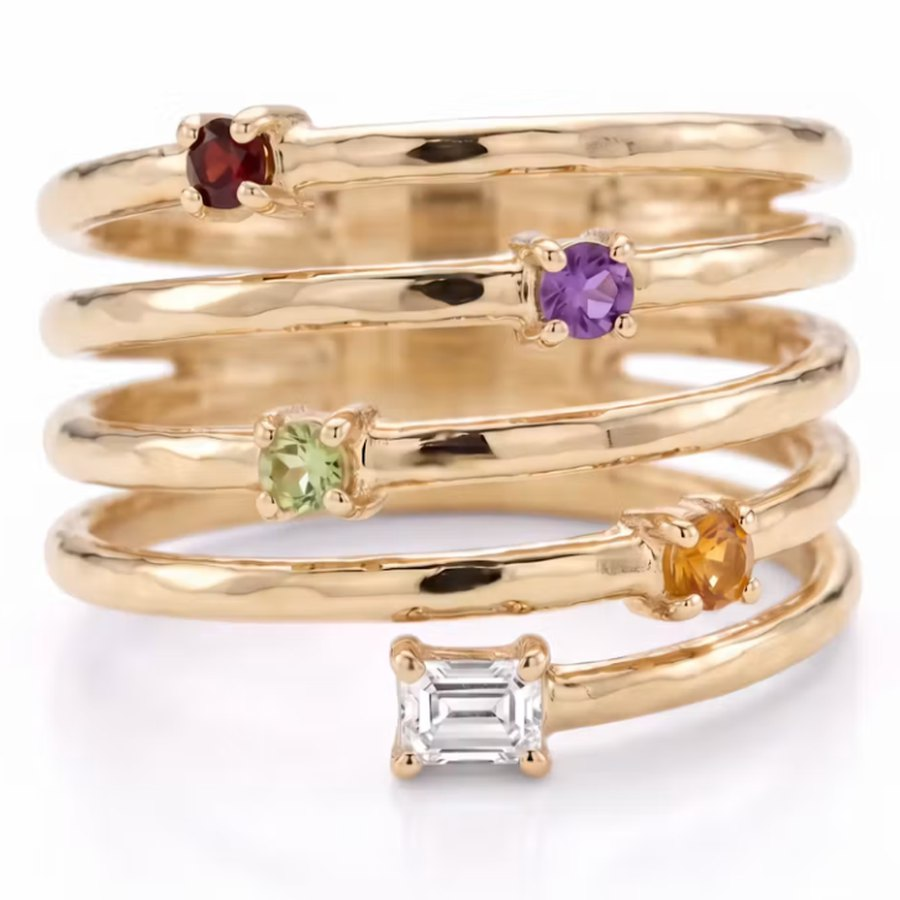
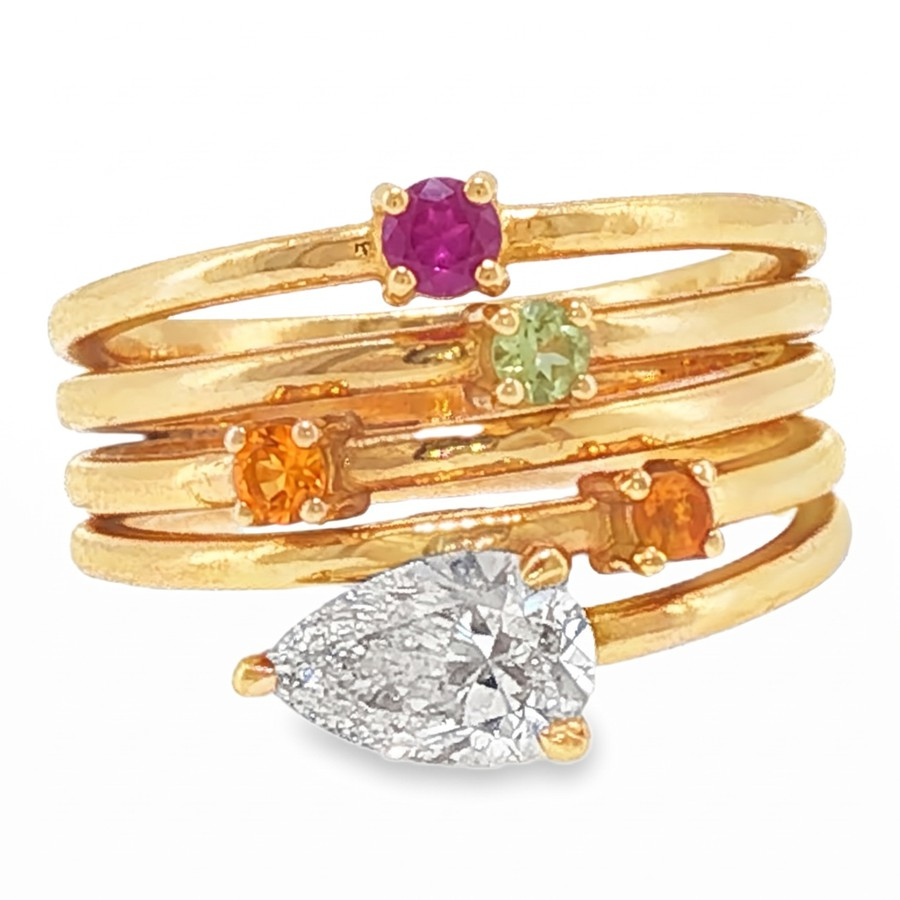
WIP: her real photos as the base; stones are cut-outs of her real stones laid on plain rings

diff --git a/index.html b/index.html
@@ -349,18 +349,18 @@ function newBottomStone(partial){
   return Object.assign({id:++uid, shape:'oval', month:3, size:'c100', name:'', turn:false}, partial || {});
 }
 function defaultDesign(){
-  // Opens on Penina's own ring (see "Her ring, for reference"): ruby, garnet,
-  // amethyst, peridot, citrine, and an emerald-cut diamond on the bottom wrap.
+  // Opens on Penina's own ring, as photographed: garnet, garnet, ruby,
+  // peridot, citrine, and a pear diamond lying sideways on the bottom wrap.
   wraps = [
-    newWrap({stone:{month:6, name:'', twin:false}}),
     newWrap({stone:{month:0, name:'', twin:false}}),
-    newWrap({stone:{month:1, name:'', twin:false}}),
+    newWrap({stone:{month:0, name:'', twin:false}}),
+    newWrap({stone:{month:6, name:'', twin:false}}),
     newWrap({stone:{month:7, name:'', twin:false}}),
     newWrap({stone:{month:10, name:'', twin:false}}),
   ];
   metal = 'y';
   stoneCarat = 'c05';
-  feature = {on:true, stones:[newBottomStone({shape:'emerald', month:3, size:'c50', turn:true})]};
+  feature = {on:true, stones:[newBottomStone({shape:'pear', month:3, size:'c50', turn:true})]};
   selected = 0;
 }
 
@@ -1048,15 +1048,25 @@ function buildSpec(){
    metal for rose gold and silver. Stone positions are measured on the 900px
    photos in img/studio (re-measure if a photo is replaced). */
 const STUDIO = {y:'gold', r:'rose', w:'silver'};
-const STUDIO_READY = {y:[1,2,3,4,5], r:[1, 2, 3, 4, 5], w:[1, 2, 3, 4, 5]};   // real photos per metal; any gaps are tinted from gold
+const STUDIO_READY = {y:[3,4,5], r:[], w:[]};   // real photos per metal; any gaps are tinted from gold
 // x, y = stone centre; r = stone radius (round stones); w, h = emerald-cut body; m = the stone in the photo
 const PHOTO_STONES = {
   1:{wraps:[{x:612,y:442,r:47,m:10}], bottom:{x:461,y:550,w:128,h:104,m:3}},
   2:{wraps:[{x:291,y:354,r:51,m:7},{x:650,y:450,r:49,m:10}], bottom:{x:460,y:618,w:118,h:138,m:3}},
-  3:{wraps:[{x:588,y:258,r:46,m:1},{x:290,y:358,r:51,m:7},{x:651,y:495,r:50,m:10}], bottom:{x:459,y:662,w:114,h:136,m:3}},
-  4:{wraps:[{x:227,y:163,r:41,m:0},{x:587,y:290,r:45,m:1},{x:304,y:468,r:42,m:7},{x:707,y:557,r:41,m:10}], bottom:{x:472,y:714,w:140,h:102,m:3}},
-  5:{wraps:[{x:456,y:103,r:42,m:6},{x:229,y:222,r:40,m:0},{x:587,y:349,r:45,m:1},{x:306,y:527,r:42,m:7},{x:708,y:618,r:40,m:10}], bottom:{x:472,y:770,w:140,h:104,m:3}},
+  3:{wraps:[{x:456,y:192,r:78,m:7},{x:230,y:335,r:68,m:null},{x:443,y:462,r:66,m:10}], bottom:{x:420,y:665,w:330,h:190,m:3,shape:'pear',turn:true}},
+  4:{wraps:[{x:438,y:235,r:42,m:6},{x:538,y:345,r:38,m:7},{x:280,y:470,r:42,m:10},{x:655,y:520,r:40,m:10}], bottom:{x:420,y:665,w:330,h:190,m:3,shape:'pear',turn:true}},
+  5:{wraps:[{x:378,y:170,r:40,m:0},{x:190,y:298,r:40,m:0},{x:535,y:355,r:40,m:6},{x:283,y:470,r:41,m:7},{x:655,y:515,r:40,m:10}], bottom:{x:430,y:655,w:330,h:190,m:3,shape:'pear',turn:true}},
 };
+/* Plain rings (no stones) per wrap count; every stone is then a cut-out of her real
+   stones laid on the wire, so any wrap can be plain, twinned, recoloured or resized. */
+const PLAIN = {1:'img/studio/plain-1.jpg', 4:'img/studio/plain-4.jpg', 5:'img/studio/plain-5.jpg'};
+/* where her stones sit on each plain ring (mapped from her photo) */
+const PLAIN_STONES = {
+  1:{wraps:[{x:560,y:300,r:40,m:10}], bottom:{x:430,y:625,w:330,h:190,m:3,shape:'pear',turn:true}},
+  4:{wraps:[{x:437,y:247,r:42,m:6},{x:537,y:341,r:38,m:7},{x:279,y:447,r:42,m:10},{x:654,y:490,r:40,m:10}], bottom:{x:419,y:614,w:330,h:190,m:3,shape:'pear',turn:true}},
+  5:{wraps:[{x:378,y:175,r:40,m:0},{x:190,y:287,r:40,m:0},{x:535,y:337,r:40,m:6},{x:283,y:438,r:40,m:7},{x:655,y:477,r:40,m:10}], bottom:{x:430,y:600,w:330,h:190,m:3,shape:'pear',turn:true}},
+};   // n -> plain ring photo, once it exists
+const SRC = {src:'img/studio/gold-5.jpg', n:5, stone:{x:535, y:355, r:40, m:6}};   // her ruby, with its prongs
 let view = 'photo';
 const photoImgs = {};          // src -> HTMLImageElement
 const metalBase = {};          // src|metal -> canvas with the metal tinted
@@ -1110,8 +1120,9 @@ function tintedBase(src, img, m, n){
   if (m !== 'y' && !STUDIO_READY[m].includes(n)){
     const id = x.getImageData(0, 0, c.width, c.height), d = id.data;
     const P = PHOTO_STONES[n], k = c.width / 900;
-    const holes = P.wraps.map(s => [s.x*k, s.y*k, s.r*k*0.96]);
-    const bx = P.bottom.x*k, by = P.bottom.y*k, bw = P.bottom.w*k*0.42, bh = P.bottom.h*k*0.42;
+    const plain = Object.values(PLAIN).includes(src);          // a bare ring: tint everything
+    const holes = plain ? [] : P.wraps.map(s => [s.x*k, s.y*k, s.r*k*0.96]);
+    const bx = P.bottom.x*k, by = P.bottom.y*k, bw = plain ? 0 : P.bottom.w*k*0.42, bh = plain ? 0 : P.bottom.h*k*0.42;
     for (let y = 0; y < c.height; y++){
       for (let xx = 0; xx < c.width; xx++){
         let skip = false;
@@ -1279,40 +1290,61 @@ function eraseStone(ctx, out, cx, cy, hw, hh){
   const W = out.width, H = out.height;
   const x0 = Math.max(4, Math.round(cx - hw)), x1 = Math.min(W - 5, Math.round(cx + hw));
   const y0 = Math.max(0, Math.round(cy - hh)), y1 = Math.min(H - 1, Math.round(cy + hh));
-  const src = pixelsOf(out).data;
   const bw = x1 - x0 + 1, bh = y1 - y0 + 1;
-  const patch = ctx.createImageData(bw, bh), d = patch.data;
-  // where the wire crosses each side, so the fill can follow its curve
+  const src = pixelsOf(out).data;
   const yL = wireYAt(out, x0 - 3, cy, hh*0.6), yR = wireYAt(out, x1 + 3, cy, hh*0.6);
-  const follow = yL != null && yR != null && Math.abs(yL - yR) < hh*0.45 && Math.abs((yL + yR)/2 - cy) < hh*0.45;
-  const col = (x, y) => { y = Math.max(0, Math.min(H - 1, Math.round(y))); const o = (y*W + x)*4; return [src[o], src[o+1], src[o+2]]; };
-  const avg3 = (xa, y, dir) => { const a = col(xa, y), b = col(xa + dir, y), c = col(xa + 2*dir, y); return [(a[0]+b[0]+c[0])/3, (a[1]+b[1]+c[1])/3, (a[2]+b[2]+c[2])/3]; };
-  const bgMin = metal === 'w' ? 236 : 188;   // bright silver wire is close to white, so be stricter
-  const isBg = c => Math.min(c[0], c[1], c[2]) > bgMin && Math.max(c[0], c[1], c[2]) - Math.min(c[0], c[1], c[2]) < 22;
-  for (let y = y0; y <= y1; y++){
-    for (let x = x0; x <= x1; x++){
-      const t = (x - x0) / (x1 - x0 || 1), s = t*t*(3 - 2*t);
-      const yc = follow ? yL + (yR - yL) * s : cy;
-      const L = avg3(x0 - 1, follow ? y + (yL - yc) : y, -1);
-      const R = avg3(x1 + 1, follow ? y + (yR - yc) : y, 1);
-      const bgL = isBg(L), bgR = isBg(R);
-      let A = L, Bc = R, f = s;
-      if (bgL !== bgR){                                   // the wire stops on one side: end it cleanly
-        const cut = bgL ? cx - hw*0.45 : cx + hw*0.45;
-        f = smooth(cut - 3, cut + 3, x);
-        if (bgL) A = [255,255,255]; else Bc = [255,255,255];
-      }
+  // where to borrow wire from: a clean stretch of the same wire toward the middle of the ring
+  const dir = cx < W/2 ? 1 : -1;
+  let sx0 = null, sy = [];
+  for (const off of []){   // (copying a stretch of wire showed seams; the blend below reads cleaner)
+    const sx = Math.round(cx + dir * hw * off);
+    if (sx - hw < 2 || sx + hw > W - 3) continue;
+    const ys = [];
+    let ok = true, yPrev = cy;
+    for (let x = sx - hw; x <= sx + hw; x++){
+      const y = wireYAt(out, x, yPrev, hh*0.7);
+      if (y == null){ ok = false; break; }
+      ys.push(y); yPrev = y;
+    }
+    if (ok){ sx0 = Math.round(sx - hw); sy = ys; break; }
+  }
+  const patch = ctx.createImageData(bw, bh), d = patch.data;
+  const col = (x, y) => { x = Math.max(0, Math.min(W - 1, Math.round(x))); y = Math.max(0, Math.min(H - 1, Math.round(y))); const o = (y*W + x)*4; return [src[o], src[o+1], src[o+2]]; };
+  for (let x = x0; x <= x1; x++){
+    const t = (x - x0) / (x1 - x0 || 1);
+    // the wire's centre under the stone: a straight line between the two sides
+    const yc = (yL != null && yR != null) ? yL + (yR - yL) * t : (yL != null ? yL : (yR != null ? yR : cy));
+    for (let y = y0; y <= y1; y++){
       const i = ((y - y0)*bw + (x - x0))*4;
-      d[i]   = A[0] + (Bc[0] - A[0]) * f;
-      d[i+1] = A[1] + (Bc[1] - A[1]) * f;
-      d[i+2] = A[2] + (Bc[2] - A[2]) * f;
+      let c;
+      if (sx0 != null){
+        const j = Math.min(sy.length - 1, x - x0);
+        c = col(sx0 + j, y + (sy[j] - yc));                // same wire, shifted to this column's centre
+      } else {
+        const L = col(x0 - 2, y + ((yL != null ? yL : cy) - yc)), R = col(x1 + 2, y + ((yR != null ? yR : cy) - yc));
+        const s = smooth(0.3, 0.7, t);
+        c = [L[0] + (R[0] - L[0]) * s, L[1] + (R[1] - L[1]) * s, L[2] + (R[2] - L[2]) * s];
+      }
+      d[i] = c[0]; d[i+1] = c[1]; d[i+2] = c[2];
       const e = Math.max(Math.abs(x - cx) / hw, Math.abs(y - cy) / hh);
-      d[i+3] = Math.round(255 * (1 - smooth(0.84, 1.0, e)));
+      d[i+3] = Math.round(255 * (1 - smooth(0.80, 1.0, e)));
     }
   }
   const p = document.createElement('canvas'); p.width = bw; p.height = bh;
   p.getContext('2d').putImageData(patch, 0, 0);
   ctx.drawImage(p, x0, y0);
+  out.__v = (out.__v || 0) + 1;
+}
+/* the bottom wire ends at her pear: taking the pear away just leaves the wire's open end */
+function eraseOpenEnd(ctx, out, B, k){
+  const cx = B.x*k, cy = B.y*k, rx = B.w*0.56*k, ry = B.h*0.62*k;
+  const g = ctx.createRadialGradient(cx, cy, 0, cx, cy, 1);
+  ctx.save();
+  ctx.translate(cx, cy); ctx.scale(rx, ry);
+  const gr = ctx.createRadialGradient(0, 0, 0, 0, 0, 1);
+  gr.addColorStop(0, 'rgba(255,255,255,1)'); gr.addColorStop(0.9, 'rgba(255,255,255,1)'); gr.addColorStop(1, 'rgba(255,255,255,0)');
+  ctx.fillStyle = gr; ctx.fillRect(-1.1, -1.1, 2.2, 2.2);
+  ctx.restore();
   out.__v = (out.__v || 0) + 1;
 }
 
@@ -1364,14 +1396,9 @@ function paintRound(ctx, base, k, s, mi, scale, dest){
    Each sprite is cut from a studio photo of this ring (the 5-wrap shot) with that
    cut on the bottom wire; bw/bh = the stone's body in sprite pixels. */
 const SPRITES = {
-  // bw/bh = the stone's body in sprite pixels; norm brings each cut to the same 0.5 ct footprint
-  'emerald-h':{src:'img/studio/bottom/emerald-h.png', bw:140, bh:104, norm:1},
-  'emerald-v':{src:'img/studio/bottom/emerald-v.png', bw:135, bh:160, norm:0.88},
-  'oval-v':   {src:'img/studio/bottom/oval-v.png',    bw:140, bh:192, norm:0.80},
-  'pear-v':   {src:'img/studio/bottom/pear-v.png',    bw:150, bh:200, norm:0.75},
-  'heart-v':  {src:'img/studio/bottom/heart-v.png',   bw:160, bh:165, norm:0.86},
-  'oval-h':   {src:'img/studio/bottom/oval-h.png',    bw:182, bh:142, norm:0.80},
-  'pear-h':   {src:'img/studio/bottom/pear-h.png',    bw:176, bh:142, norm:0.80},
+  // bw/bh = the stone's body in sprite pixels; norm brings each cut to the same 0.5 ct footprint (her pear = 1)
+  'pear-h':   {src:'img/studio/bottom/pear-h.png',    bw:316, bh:180, norm:1, pow:3},
+  'oval-h':   {src:'img/studio/bottom/oval-h.png',    bw:340, bh:230, norm:0.90, pow:3},
 };
 const spriteImgs = {};
 function spriteFor(shape, turn){
@@ -1406,7 +1433,9 @@ function paintSprite(ctx, sp, cx, cy, scale, mi){
   const inBody = (x, y) => ((x - pw/2) / (sp.bw*0.5))**2 + ((y - ph/2) / (sp.bh*0.5))**2 < 1;
   if (mi !== 3) recolor(px, pw, ph, (x, y, r, g, b) => {
     const e = ((x - pw/2) / (sp.bw*0.52))**2 + ((y - ph/2) / (sp.bh*0.52))**2;
-    return e < 1 ? Math.max(1 - smooth(0.55, 0.8, e), notMetal(r, g, b)) * (1 - smooth(0.85, 1, e)) : 0;
+    const [, sat, mx] = hueSat(r, g, b);
+    if (e >= 1 || (mx > 238 && sat < 0.05) || isMetalPx(r, g, b)) return 0;
+    return 1 - smooth(0.86, 1, e);
   }, mi);
   clearBackdrop(px, pw, ph, inBody);
   // keep only the stone and the prongs that hold it: a rounded-box mask just outside the body
@@ -1427,7 +1456,7 @@ function buildSwatches(){
   const src = 'img/studio/gold-5.jpg', img = loadPhoto(src);
   if (!img) return;
   const k = img.naturalWidth / 900;
-  const s = {x:587, y:349, r:45, m:1};                       // the amethyst on the 5-wrap photo
+  const s = {x:535, y:355, r:40, m:6};                       // the ruby on her 5-wrap photo
   const gold = tintedBase(src, img, 'y', 5);
   const R = s.r * k, side = Math.ceil(R*2);
   for (let mi = 0; mi < 12; mi++){
@@ -1450,14 +1479,17 @@ function buildSwatches(){
     const ox = o.getContext('2d');
     ox.beginPath(); ox.arc(32, 32, 32, 0, Math.PI*2); ox.clip();
     const w = 30*k;
-    ox.drawImage(base, 700*k - w, 352*k - w, w*2, w*2, 0, 0, 64, 64);
+    ox.drawImage(base, 720*k - w, 232*k - w, w*2, w*2, 0, 0, 64, 64);
     SWATCH.metals[m] = o.toDataURL('image/png');
   }
   SWATCH.ready = true;
   renderEditor();
 }
 function photoFor(){
-  const n = Math.min(Math.max(wraps.length, 1), MAX_WRAPS);
+  let n = Math.min(Math.max(wraps.length, 1), MAX_WRAPS);
+  if (PLAIN[n]) return {n, real:false, src:PLAIN[n]};
+  while (n < MAX_WRAPS && !STUDIO_READY.y.includes(n) && !PLAIN[n]) n++;      // nearest photographed size
+  if (PLAIN[n]) return {n, real:false, src:PLAIN[n]};
   const real = STUDIO_READY[metal].includes(n);
   return {n, real, src:'img/studio/' + STUDIO[real ? metal : 'y'] + '-' + n + '.jpg'};
 }
@@ -1479,26 +1511,34 @@ function renderPhoto(){
   ctx.drawImage(base, 0, 0);
   cv.__v = (cv.__v || 0) + 1;
   const k = cv.width / 900, P = PHOTO_STONES[n];
+  if (PLAIN[n]) return renderOnPlain(ctx, cv, k, n, PLAIN_STONES[n] || P);
   const avoid = P.wraps.map(s => [s.x*k, s.y*k, s.r*k*1.5]);
-  const B = P.bottom, bLong = Math.max(B.w, B.h), photoScale = bLong / 140;
+  const B = P.bottom, bLong = Math.max(B.w, B.h), photoScale = bLong / 330;   // her pear's body = the 0.5 ct baseline
   avoid.push([B.x*k, B.y*k, bLong*k*0.75]);
 
   // top wraps: plain wraps lose their stone, the rest take the chosen stone and carat
   const topScale = STONE_CARATS[stoneCarat].scale / STONE_CARATS.c05.scale;
   P.wraps.forEach((s, i) => {
     const st = wraps[i] && wraps[i].stone;
-    if (!st) eraseStone(ctx, cv, s.x*k, s.y*k, s.r*1.9*k, s.r*1.7*k);
+    if (!st && s.m != null) eraseStone(ctx, cv, s.x*k, s.y*k, s.r*1.6*k, s.r*1.6*k);
   });
   // bottom wire — take the photo's own stone out first, before anything new is painted nearby
-  const origSideways = B.w > B.h;
+  const origShape = B.shape || 'emerald', origSideways = B.turn != null ? Boolean(B.turn) : B.w > B.h;
   const stones = feature.on ? feature.stones : [];
-  const same = stones.length === 1 && stones[0].shape === 'emerald' && Boolean(stones[0].turn) === origSideways;
-  if (!same) eraseStone(ctx, cv, B.x*k, B.y*k, B.w*0.80*k, B.h*0.95*k);
+  const same = stones.length === 1 && stones[0].shape === origShape && Boolean(stones[0].turn) === origSideways;
+  if (!same){ if (B.open) eraseOpenEnd(ctx, cv, B, k); else eraseStone(ctx, cv, B.x*k, B.y*k, B.w*0.62*k, B.h*0.70*k); }
 
   // top stones
+  const srcImg = loadPhoto(SRC.src), srcBase = srcImg ? tintedBase(SRC.src, srcImg, metal, SRC.n) : null;
   P.wraps.forEach((s, i) => {
     const st = wraps[i] && wraps[i].stone;
     if (!st) return;
+    if (s.m == null){                               // a bare wire in this photo: lay her real stone on it
+      if (!srcBase) return;
+      const yw = wireYAt(cv, s.x*k, s.y*k, s.r*k*1.2);
+      paintRound(ctx, srcBase, k, SRC.stone, st.month, topScale * (s.r / SRC.stone.r), {x:s.x*k, y:yw != null ? yw : s.y*k});
+      return;
+    }
     paintRound(ctx, base, k, s, st.month, topScale);
     if (st.twin){
       // the twin sits beside it on the same wire, toward the middle of the ring
@@ -1534,13 +1574,13 @@ function renderPhoto(){
       const leftEnd = trace(-1), rightEnd = trace(1);
       let gap = 22 * k;
       let total = widths.reduce((a, b) => a + b, 0) + gap * (stones.length - 1);
-      const room = Math.max(widths[0], (rightEnd - leftEnd) - 20*k);
+      const room = Math.max(widths[0], B.open ? (rightEnd - x0) + widths[0]/2 - 10*k : (rightEnd - leftEnd) - 20*k);
       if (total > room){                       // smaller stones when several share the wire
         const f = room / total;
         scales = scales.map(s => s * f); widths = widths.map(w => w * f); gap *= f; total = room;
       }
       let left = Math.max(leftEnd + 10*k, Math.min(x0 - total/2, rightEnd - 10*k - total));
-      if (stones.length === 1) left = x0 - widths[0]/2;
+      if (stones.length === 1 || B.open) left = x0 - widths[0]/2;   // the first stone sits where hers does
       let x = left, yPrev = y0;
       const yAtX0 = wireYAt(cv, x0, y0, 30*k);
       stones.forEach((bs, i) => {
@@ -1556,15 +1596,67 @@ function renderPhoto(){
   const what = n + ' wrap' + (n !== 1 ? 's' : '') + ' in ' + METALS[metal].label.toLowerCase();
   cv.setAttribute('aria-label', 'Photograph of your ring, ' + what);
 }
+/* the paste-everything path: plain ring + her real stones laid on it */
+function renderOnPlain(ctx, cv, k, n, P){
+  const srcImg = loadPhoto(SRC.src);
+  if (!srcImg) return;
+  const srcBase = tintedBase(SRC.src, srcImg, metal, SRC.n);
+  const topScale = STONE_CARATS[stoneCarat].scale / STONE_CARATS.c05.scale;
+  P.wraps.forEach((s, i) => {
+    const st = wraps[i] && wraps[i].stone;
+    if (!st) return;
+    const yw = wireYAt(cv, s.x*k, s.y*k, s.r*k*1.2);
+    const dest = {x:s.x*k, y:yw != null ? yw : s.y*k};
+    const sc = topScale * (s.r / SRC.stone.r);
+    paintRound(ctx, srcBase, k, SRC.stone, st.month, sc, dest);
+    if (st.twin){
+      const dir = s.x < 450 ? 1 : -1, gapX = SRC.stone.r * 2.7 * Math.max(1, topScale*0.92);
+      const tx = (s.x + dir*gapX) * k;
+      const ty2 = wireYAt(cv, tx, dest.y, s.r*k*1.2);
+      paintRound(ctx, srcBase, k, SRC.stone, twinMonth(st), sc, {x:tx, y:ty2 != null ? ty2 : dest.y});
+    }
+  });
+  const B = P.bottom, stones = feature.on ? feature.stones : [];
+  const sprites = stones.map(bs => spriteFor(bs.shape, bs.turn));
+  if (!stones.length || !sprites.every(Boolean)) return;
+  const bLong = Math.max(B.w, B.h), photoScale = bLong / 330;
+  let scales = stones.map(bs => photoScale * k * FEATURE_CARATS[bs.size].scale / FEATURE_CARATS.c50.scale);
+  let widths = sprites.map((sp, i) => sp.bw * sp.norm * scales[i]);
+  const x0 = B.x*k, y0 = B.y*k;
+  let gap = 22 * k, total = widths.reduce((a, b) => a + b, 0) + gap * (stones.length - 1);
+  const room = Math.max(widths[0], B.w*k*1.35);
+  if (total > room){ const f = room / total; scales = scales.map(s => s*f); widths = widths.map(w => w*f); gap *= f; total = room; }
+  let x = x0 - total/2, yPrev = y0;
+  const yAtX0 = wireYAt(cv, x0, y0, 40*k);
+  stones.forEach((bs, i) => {
+    const cx = x + widths[i]/2;
+    const yw = wireYAt(cv, cx, yPrev, 40*k);
+    const cy = (yw != null && yAtX0 != null) ? y0 + (yw - yAtX0) : y0;
+    if (yw != null) yPrev = yw;
+    paintSprite(ctx, sprites[i], cx, cy, scales[i], bs.month);
+    x += widths[i] + gap;
+  });
+}
 function paintEmeraldInPlace(ctx, base, k, s, mi, scale){
   if (mi === s.m && scale === 1) return;
-  const hw = s.w*0.78*k, hh = s.h*0.78*k, pw = Math.ceil(hw*2), ph = Math.ceil(hh*2);
+  const hw = s.w*0.72*k, hh = s.h*0.80*k, pw = Math.ceil(hw*2), ph = Math.ceil(hh*2);
   const p = document.createElement('canvas'); p.width = pw; p.height = ph;
   const px = p.getContext('2d', {willReadFrequently:true});
   px.drawImage(base, s.x*k - hw, s.y*k - hh, pw, ph, 0, 0, pw, ph);
-  if (mi !== s.m) recolor(px, pw, ph, (x, y) => (1 - smooth(s.w*k*0.40, s.w*k*0.49, Math.abs(x - hw))) * (1 - smooth(s.h*k*0.40, s.h*k*0.49, Math.abs(y - hh))), mi);
-  clearBackdrop(px, pw, ph, (x, y) => Math.abs(x - hw) < s.w*k*0.5 && Math.abs(y - hh) < s.h*k*0.5);
-  featherInto(px, pw, ph, scale > 1 ? 0.80 : 0.86);
+  const isBackdrop = (r, g, b) => { const [, sat, mx] = hueSat(r, g, b); return mx > 238 && sat < 0.05; };
+  if (mi !== s.m) recolor(px, pw, ph, (x, y, r, g, b) => {
+    const e = ((x - hw) / (s.w*0.52*k))**2 + ((y - hh) / (s.h*0.52*k))**2;
+    if (e > 1 || isBackdrop(r, g, b) || isMetalPx(r, g, b)) return 0;
+    return 1 - smooth(0.86, 1, e);
+  }, mi);
+  clearBackdrop(px, pw, ph, (x, y) => ((x - hw) / (s.w*0.5*k))**2 + ((y - hh) / (s.h*0.5*k))**2 < 1);
+  // keep the stone and its prongs only
+  const id = px.getImageData(0, 0, pw, ph), d = id.data;
+  for (let y = 0; y < ph; y++) for (let x = 0; x < pw; x++){
+    const v = Math.pow(Math.abs(x - hw) / (s.w*0.66*k), 4) + Math.pow(Math.abs(y - hh) / (s.h*0.70*k), 4);
+    d[(y*pw + x)*4 + 3] *= 1 - smooth(0.80, 1.0, v);
+  }
+  px.putImageData(id, 0, 0);
   ctx.drawImage(p, s.x*k - hw*scale, s.y*k - hh*scale, pw*scale, ph*scale);
 }
 document.querySelectorAll('.viewseg button').forEach(b => b.addEventListener('click', () => { view = b.dataset.view; renderPhoto(); }));
